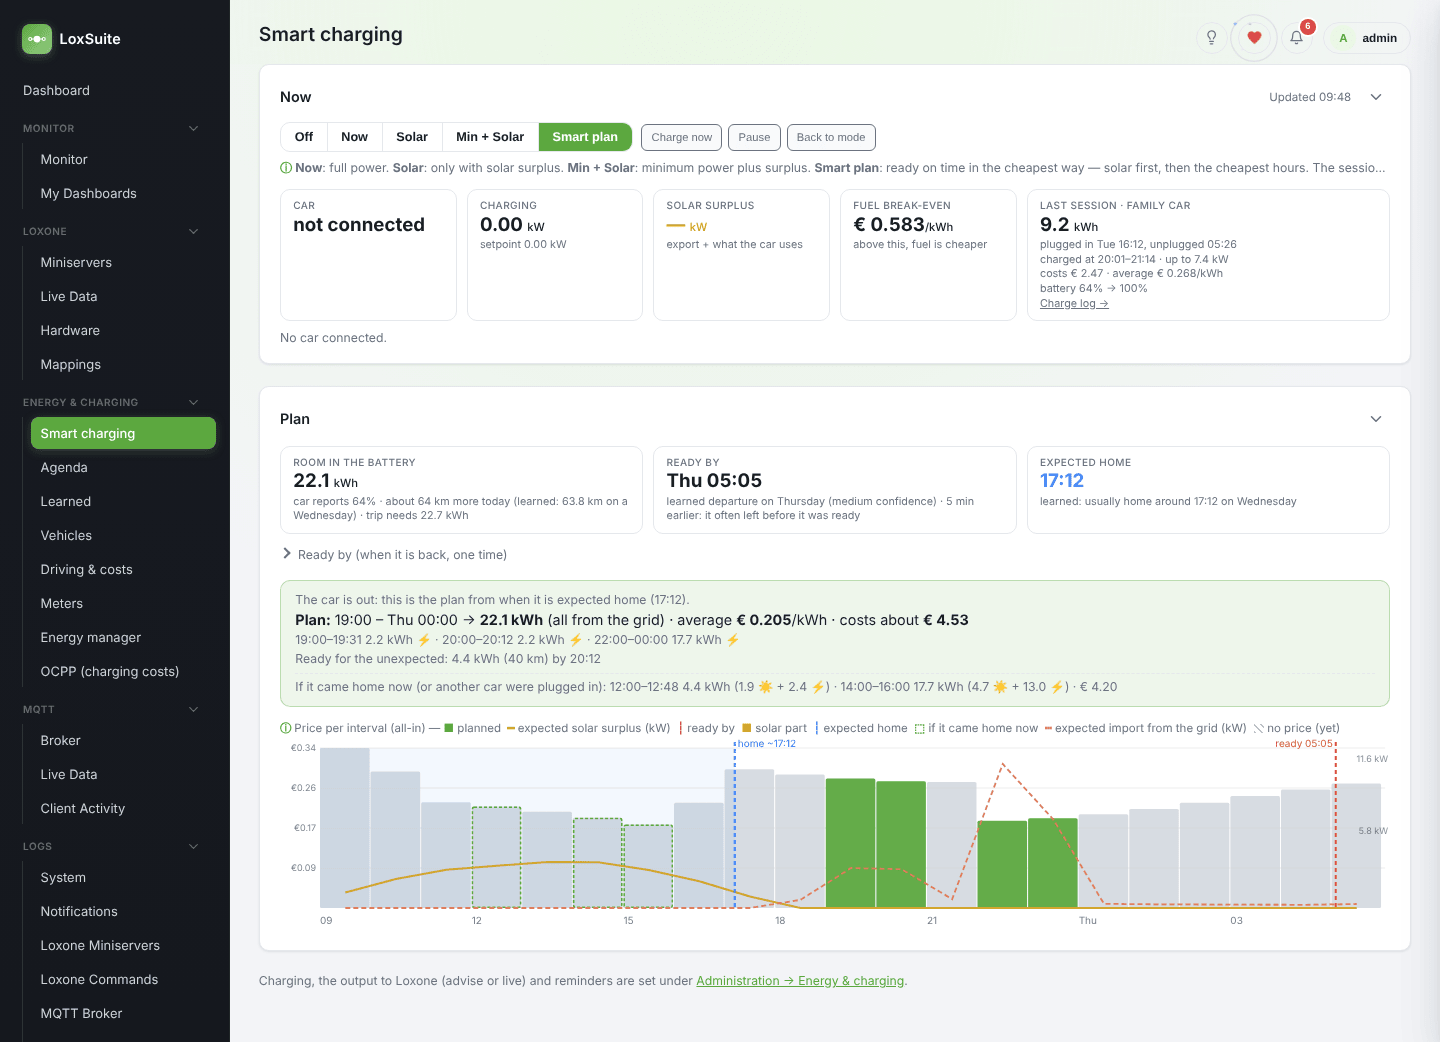
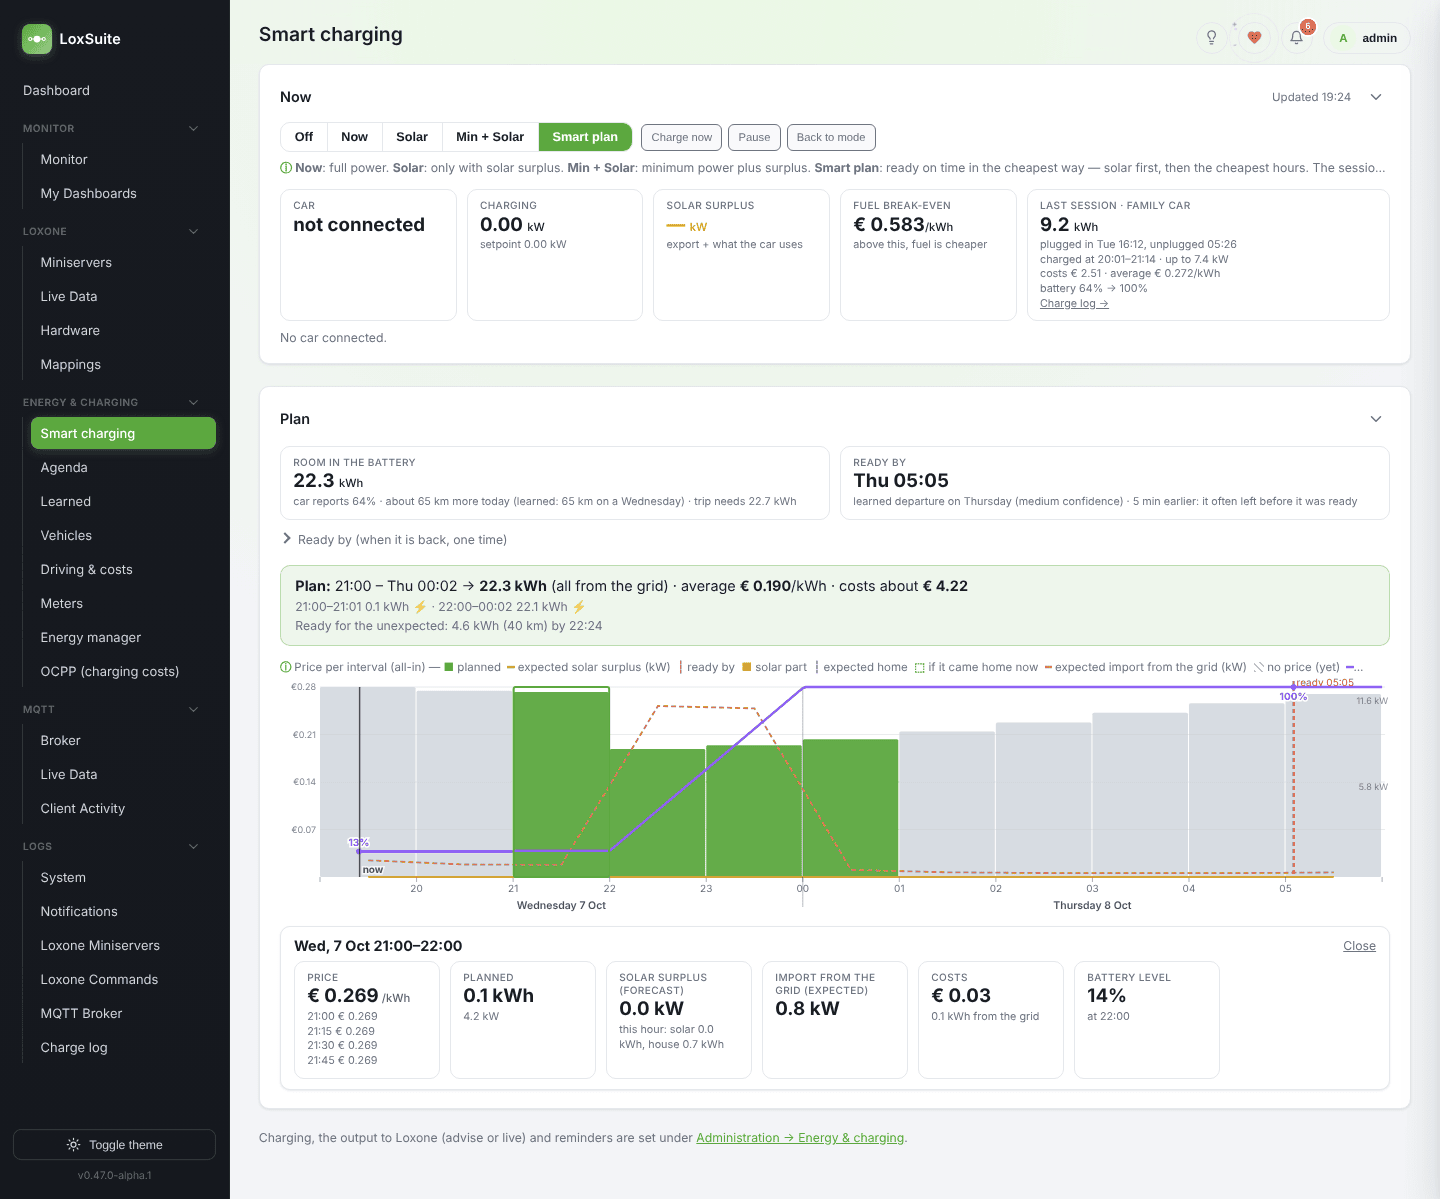
v0.47.0: Smart charging chart with the expected battery level, hours and days on the axis, a now line, and the details of a tapped hour

diff --git a/gateway/src/planner.js b/gateway/src/planner.js
@@ -390,6 +390,10 @@ async function computeTarget(nowMs, wb) {
     needKwh = Math.max(0, est - (wb?.sessionKwh || 0));
     needSource = exp ? `estimated from ${exp.source} (${exp.n}x, ${exp.kwh} kWh) minus ${(wb?.sessionKwh || 0).toFixed(1)} kWh charged` : 'estimate (no history yet)';
   }
+  // The battery level the plan starts from (now, or when it is back): what is missing up to its limit
+  // — from the car's own reading when there is one, else the estimate above. For the chart's line.
+  const limitPctNow = reading?.limit_soc ?? vehicle?.charge_limit_pct ?? 100;
+  const levelKwh = vehicle?.battery_kwh && Number.isFinite(needKwh) ? round3(Math.max(0, vehicle.battery_kwh * limitPctNow / 100 - needKwh)) : null;
   // Deadline: a manual "ready by" for this session, the agenda, the learned weekday pattern.
   let readyAtMs = null;
   let readySource = '';
@@ -536,7 +540,10 @@ async function computeTarget(nowMs, wb) {
     needKwh = 0; zeroed = true;
   }
   if (zeroed) { split = null; bufferKwh = 0; } // full / minimum top-up: nothing to split or to buffer
-  return { needKwh: round3(needKwh || 0), needSource, readyAtMs, readySource, vehicle, usable, reading, drive, away, split, bufferKwh, bufferKm: Number(cfg.buffer_km) || 0 };
+  return {
+    needKwh: round3(needKwh || 0), needSource, readyAtMs, readySource, vehicle, usable, reading, drive, away, split, bufferKwh, bufferKm: Number(cfg.buffer_km) || 0,
+    batteryKwh: vehicle?.battery_kwh || null, limitPct: limitPctNow, levelKwh, levelEstimated: !(reading && vehicle?.battery_kwh), reservePct: vehicle?.reserve_pct ?? null,
+  };
 }
 
 // When the car that is out is expected home: an appointment with the car that is going on now (its
@@ -626,6 +633,71 @@ function mergeTrips(first, next = [], { gapMin = 45 } = {}) {
     out.merged = (out.merged || 0) + 1;
   }
   return out;
+}
+
+// Pure: the expected battery level from startMs: up during the planned charging (each slot's kWh spread
+// over it), down during the drives (leave → back, their kWh), never above its limit or below empty (a
+// plug-in hybrid then drives on fuel). -> [{ at (ms), pct }] at every change.
+function batteryCurve({ startMs, startKwh, batteryKwh, fullKwh = null, charges = [], drives = [], untilMs }) {
+  if (!(batteryKwh > 0) || !Number.isFinite(startKwh) || !(untilMs > startMs)) return [];
+  const full = Math.min(batteryKwh, fullKwh > 0 ? fullKwh : batteryKwh);
+  const parts = [];
+  const add = (from, to, kwh, sign) => {
+    const a = Math.max(from, startMs);
+    const b = Math.min(to, untilMs);
+    if (b > a && to > from && kwh > 0) parts.push({ a, b, rate: sign * kwh / (to - from) });
+  };
+  for (const c of charges) add(c.start, c.end, c.kwh, 1);
+  for (const d of drives) add(d.leave, d.back, d.kwh, -1);
+  const cuts = [...new Set([startMs, untilMs, ...parts.flatMap((x) => [x.a, x.b])])].sort((x, y) => x - y);
+  const pct = (k) => Math.round(k / batteryKwh * 1000) / 10;
+  let kwh = Math.min(full, Math.max(0, startKwh));
+  const out = [{ at: cuts[0], pct: pct(kwh) }];
+  for (let i = 1; i < cuts.length; i++) {
+    const a = cuts[i - 1];
+    const b = cuts[i];
+    const rate = parts.filter((x) => x.a <= a && x.b >= b).reduce((t, x) => t + x.rate, 0);
+    let next = kwh + rate * (b - a);
+    if (rate > 0 && next > full) {
+      const at = a + (full - kwh) / rate;
+      if (at > a && at < b) out.push({ at: Math.round(at), pct: pct(full) });
+      next = full;
+    } else if (rate < 0 && next < 0) {
+      const at = a - kwh / rate;
+      if (at > a && at < b) out.push({ at: Math.round(at), pct: 0 });
+      next = 0;
+    }
+    kwh = next;
+    out.push({ at: b, pct: pct(kwh) });
+  }
+  return out;
+}
+
+// The chart's battery line: from the start of the plan, with its charging and the car's drives from
+// home in the agenda (their expected use, without the margin) — or the usual drive of that weekday the
+// plan reckons with.
+async function batteryLine(target, plan, slots, startMs) {
+  if (!(target.batteryKwh > 0) || !Number.isFinite(target.levelKwh)) return null;
+  const untilMs = slots.length ? Date.parse(slots[slots.length - 1].end) : startMs + 24 * 3600000;
+  const charges = (plan.slots || []).map((q) => ({ start: Date.parse(q.start), end: Date.parse(q.end), kwh: q.kwh || 0 }));
+  const drives = [];
+  try {
+    for (const t of await require('./agenda').tours(new Date(startMs).toISOString(), new Date(untilMs).toISOString())) {
+      if (t.allDay || (t.vehicle_id && target.vehicle && t.vehicle_id !== target.vehicle.id)) continue;
+      const use = t.km > 0 && t.marginKm > 0 && t.km > t.marginKm && t.kwh ? t.kwh * (t.km - t.marginKm) / t.km : t.kwh;
+      drives.push({ leave: Date.parse(t.leaveAt), back: Date.parse(t.backAt), kwh: round3(use || 0), title: t.title });
+    }
+  } catch { /* no agenda */ }
+  const sp = target.split;
+  if (sp && /^usual /.test(sp.title || '') && sp.away?.[0] && !drives.some((d) => d.leave < sp.backAtMs && d.back > sp.away[0][0])) {
+    drives.push({ leave: sp.away[0][0], back: sp.backAtMs, kwh: sp.tripKwh || 0, title: sp.title });
+  }
+  const fullKwh = target.batteryKwh * (Number(target.limitPct) || 100) / 100;
+  return {
+    points: batteryCurve({ startMs, startKwh: target.levelKwh, batteryKwh: target.batteryKwh, fullKwh, charges, drives, untilMs }),
+    limitPct: Number(target.limitPct) || 100, reservePct: target.reservePct, estimated: !!target.levelEstimated,
+    drives: drives.map((d) => ({ leave: d.leave, back: d.back, kwh: d.kwh, title: d.title })),
+  };
 }
 
 // Pure: the plan for what must be in before the appointment + the rest. The rest is picked from the
@@ -854,7 +926,10 @@ async function recalc(nowMs = Date.now(), { force = false } = {}) {
   plan.fuelBreakEven = fuel;
   plan.priceCap = priceCap;
   plan.slotsAll = slots;
+  plan.battery = await batteryLine(target, plan, slots, arrival ? arrival.at : nowMs).catch(() => null);
   plan.chartPrices = slots.length ? await require('./prices').chartQuarters(slots[0].start, slots[slots.length - 1].end).catch(() => null) : null;
+  // the quarters for the details of an hour, also when the chart shows hours
+  plan.quarterPrices = !plan.chartPrices && slots.length ? await require('./prices').quartersBetween(slots[0].start, slots[slots.length - 1].end).catch(() => null) : null;
   plan.priceGapFrom = priceGapFrom === null ? null : new Date(priceGapFrom).toISOString();
   plan.madeAt = new Date(nowMs).toISOString();
   rt.plan = plan;
@@ -1058,6 +1133,6 @@ function stopPlanner() {
 }
 
 module.exports = {
-  MODES, DEFAULTS, makePlan, withRest, planSplit, sameTrip, mergeTrips, planWithBuffer, joinPlans, freeOf, fuelBreakEven, activeSlot, controlStep,
+  MODES, DEFAULTS, makePlan, withRest, planSplit, sameTrip, mergeTrips, batteryCurve, planWithBuffer, joinPlans, freeOf, fuelBreakEven, activeSlot, controlStep,
   houseWeather, getConfig, saveConfig, recalc, tick, outputMiniserver, sessionFull, setOverride, setReadyOverride, setSessionVehicle, primaryVehicle, getRuntime, startPlanner, stopPlanner, buildSlots, computeTarget, wallboxLive,
 };

diff --git a/gateway/test/batteryCurve.test.js b/gateway/test/batteryCurve.test.js
@@ -1,0 +1,44 @@
+// The battery line in the Smart charging chart (v0.47): the expected level from the start of the plan,
+// up while charging, down while out, never above its limit or below empty.
+const test = require('node:test');
+const assert = require('node:assert/strict');
+const { batteryCurve } = require('../src/planner');
+
+const H = 3600000;
+const t0 = Date.UTC(2026, 9, 8, 18);
+const at = (pts, h) => pts.find((p) => p.at === t0 + h * H)?.pct;
+
+test('flat until charging starts, up while charging, capped at its limit', () => {
+  const pts = batteryCurve({
+    startMs: t0, startKwh: 6, batteryKwh: 25, fullKwh: 25, untilMs: t0 + 20 * H,
+    charges: [{ start: t0 + 3 * H, end: t0 + 6 * H, kwh: 15 }, { start: t0 + 7 * H, end: t0 + 8 * H, kwh: 7 }],
+  });
+  assert.equal(at(pts, 0), 24);
+  assert.equal(at(pts, 3), 24, 'nothing before the charging');
+  assert.equal(at(pts, 6), 84);
+  assert.equal(at(pts, 8), 100, 'full at its limit, not 112%');
+  const cap = pts.find((p) => p.pct === 100);
+  assert.ok(cap.at > t0 + 7 * H && cap.at < t0 + 8 * H, 'the moment it is full is a point of its own');
+  assert.equal(pts[pts.length - 1].at, t0 + 20 * H);
+});
+
+test('down during a drive, not below empty (a hybrid drives on fuel); a limit below 100%', () => {
+  const pts = batteryCurve({
+    startMs: t0, startKwh: 20, batteryKwh: 25, fullKwh: 20, untilMs: t0 + 12 * H,
+    drives: [{ leave: t0 + 2 * H, back: t0 + 4 * H, kwh: 30 }],
+    charges: [{ start: t0 + 5 * H, end: t0 + 6 * H, kwh: 11 }],
+  });
+  assert.equal(at(pts, 0), 80, 'starts at 20 of 25 kWh');
+  assert.equal(at(pts, 2), 80);
+  assert.equal(at(pts, 4), 0, 'empty, not below');
+  assert.ok(pts.some((p) => p.pct === 0 && p.at > t0 + 2 * H && p.at < t0 + 4 * H), 'the moment it is empty');
+  assert.equal(at(pts, 6), 44);
+});
+
+test('charging or a drive partly before the start counts only from the start; nothing without a battery', () => {
+  const pts = batteryCurve({ startMs: t0 + H, startKwh: 10, batteryKwh: 50, untilMs: t0 + 3 * H, charges: [{ start: t0, end: t0 + 2 * H, kwh: 10 }] });
+  assert.equal(at(pts, 1), 20);
+  assert.equal(at(pts, 2), 30, 'half of the slot after the start: 5 kWh');
+  assert.deepEqual(batteryCurve({ startMs: t0, startKwh: 10, batteryKwh: null, untilMs: t0 + H }), []);
+  assert.deepEqual(batteryCurve({ startMs: t0, startKwh: NaN, batteryKwh: 50, untilMs: t0 + H }), []);
+});

diff --git a/gateway/src/prices.js b/gateway/src/prices.js
@@ -442,6 +442,16 @@ async function chartQuarters(fromIso, toIso) {
   return list.length ? list : null;
 }
 
+// The quarter-hour all-in prices between two times whatever the charts show (for the details of an
+// hour), or null when the source has none.
+async function quartersBetween(fromIso, toIso) {
+  const cfg = await getConfig();
+  if (!['energyzero', 'entsoe'].includes(cfg.source)) return null;
+  const a = Date.parse(fromIso), b = Date.parse(toIso);
+  const list = ((await settings.get('price_quarters', [])) || []).filter((q) => Date.parse(q.end) > a && Date.parse(q.start) < b);
+  return list.length ? list : null;
+}
+
 async function getPrices(fromIso, toIso) {
   return db.prepare('SELECT start_at, end_at, market_eur_kwh, allin_eur_kwh, source FROM energy_prices WHERE end_at > ? AND start_at < ? ORDER BY start_at').all(fromIso, toIso);
 }
@@ -481,6 +491,6 @@ function stopPrices() {
 
 module.exports = {
   DEFAULTS, allinPrice, fitLinear, parseEnergyZero, parseEnergyZeroPublic, ezDate, parseEntsoe, entsoeTime, hourOfDayProfile, fillProfile, loxoneHistory, toIntervals, toHourly, fixedPrice,
-  getConfig, saveConfig, fetchMarket, fetchEnergyZero, fetchMarketFilled, pricesBehind, refreshPrices, getPrices, chartQuarters, currentPrice, calibration, sampleCalibration,
+  getConfig, saveConfig, fetchMarket, fetchEnergyZero, fetchMarketFilled, pricesBehind, refreshPrices, getPrices, chartQuarters, quartersBetween, currentPrice, calibration, sampleCalibration,
   loxoneCurrentPrice, findSpotOptimizer, startPrices, stopPrices,
 };

diff --git a/dev/screenshots/take-screenshots.js b/dev/screenshots/take-screenshots.js
@@ -206,6 +206,15 @@ async function main() {
     // Long pages are captured whole (fullPage) so the charts below the fold are in the picture.
     await page.goto(`${BASE}/planner`, { waitUntil: 'networkidle' });
     await page.waitForTimeout(2500);
+    // the details of a planned hour below the chart
+    const planned = await page.evaluate(() => {
+      const bar = [...document.querySelectorAll('#pl-chart rect')].find((r) => r.getAttribute('fill') === 'var(--accent)');
+      if (!bar) return -1;
+      const x = Number(bar.getAttribute('x'));
+      const hit = [...document.querySelectorAll('[data-pl-i]')].find((r) => Math.abs(Number(r.getAttribute('x')) - x) < 1);
+      return hit ? Number(hit.getAttribute('data-pl-i')) : -1;
+    });
+    if (planned >= 0) { await page.locator(`[data-pl-i="${planned}"]`).dispatchEvent('click'); await page.waitForTimeout(500); }
     await shoot(page, 'smart-charging', theme, { fullPage: true });
 
     await page.goto(`${BASE}/energy`, { waitUntil: 'networkidle' });

diff --git a/README.md b/README.md
@@ -7,7 +7,7 @@
      since this repo only publishes git tags, not GitHub Releases) — bump it alongside CHANGELOG.md
      and package.json on every version release. -->
 [![Latest version](https://img.shields.io/github/v/tag/DaveRutten/LoxSuite?sort=semver&label=version)](https://github.com/DaveRutten/LoxSuite/tags)
-[![Commits since latest tag](https://img.shields.io/github/commits-since/DaveRutten/LoxSuite/v0.46.0-alpha.1)](https://github.com/DaveRutten/LoxSuite/commits/main)
+[![Commits since latest tag](https://img.shields.io/github/commits-since/DaveRutten/LoxSuite/v0.47.0-alpha.1)](https://github.com/DaveRutten/LoxSuite/commits/main)
 [![Open issues](https://img.shields.io/github/issues/DaveRutten/LoxSuite)](https://github.com/DaveRutten/LoxSuite/issues)
 [![License](https://img.shields.io/github/license/DaveRutten/LoxSuite)](LICENSE)
 
@@ -86,7 +86,7 @@ It provides:
 
 <picture>
   <source media="(prefers-color-scheme: dark)" srcset="docs/screenshots/smart-charging-dark.png">
-  <img src="docs/screenshots/smart-charging-light.png" alt="Smart charging in two cards: Now (mode, session buttons, the live figures and the last session) and Plan (what fits in the battery, ready by, expected home, the plan with its solar and grid part, and the price chart with planned hours)">
+  <img src="docs/screenshots/smart-charging-light.png" alt="Smart charging in two cards: Now (mode, session buttons, the live figures and the last session) and Plan (what fits in the battery, ready by, expected home, the plan with its solar and grid part, and the chart: prices with the planned hours, the expected battery level, hours and days, now, and the details of a tapped hour)">
 </picture>
 
 </td>
@@ -710,6 +710,11 @@ charging page itself is the overview.
   moment, or a fixed feed-in tariff), grid energy at the all-in price; the cheapest intervals win. For a plug-in
   hybrid intervals above the fuel break-even price (fuel price x l/100 km vs kWh/km) are skipped. Every planned
   interval shows its solar and grid part (e.g. *11.0 kWh (2.9 ☀ + 8.1 ⚡)*), also in the chart.
+- **The chart**: price per interval with the planned ones, the expected solar surplus and import from the grid,
+  and the **expected battery level** (%) — up while charging, down during the drives in the agenda (or the
+  usual drive of that day), with the level at the start, when it has to be ready and after each drive. A tick
+  every hour, the days below it, a *now* line; **tap a bar** for that interval: its price (per quarter), what is
+  planned (kWh, kW, solar part), solar and house, import from the grid, what it costs and the battery after it.
 - **Full and ready**: plugged in before a trip, only the trip + reserve has to be in before leaving; the trip's
   own kWh come out of the battery, so after it is back the car is charged **full again before it is needed
   next** (its next departure in the agenda or the learned one) — in the cheapest hours it is home, never while

diff --git a/CHANGELOG.md b/CHANGELOG.md
@@ -2,6 +2,22 @@
 
 All notable changes to this project are documented in this file.
 
+## [0.47.0-alpha.1] - 2026-10-07
+
+### Added
+- **More detail in the Smart charging chart** (asked for):
+  - **expected battery level** (%, purple): from the start of the plan (now, or when the car is expected
+    home), up while charging, down during the car's drives in the agenda (their expected use, without the
+    margin) or the usual drive of that weekday the plan reckons with, capped at the charge limit and never below
+    empty; the level at the start, when it has to be ready and around each drive is written next to it; dashed
+    when the starting level is an estimate (no reading from the car), the reserve as a dotted line;
+  - **finer time axis**: a tick every hour and a label every 1–3 hours (what fits), the days below the hours with
+    a line at midnight, a *now* line; the chart is a bit taller;
+  - **tap (or click) a bar** for that interval below the chart: price (and the four quarter prices of an hour,
+    also when the chart shows hours), what is planned (kWh, kW, solar part), the solar surplus with the expected
+    solar and house use of that hour, the expected import from the grid, what the grid part costs, and the
+    battery level after it.
+
 ## [0.46.0-alpha.1] - 2026-10-07
 
 ### Added
